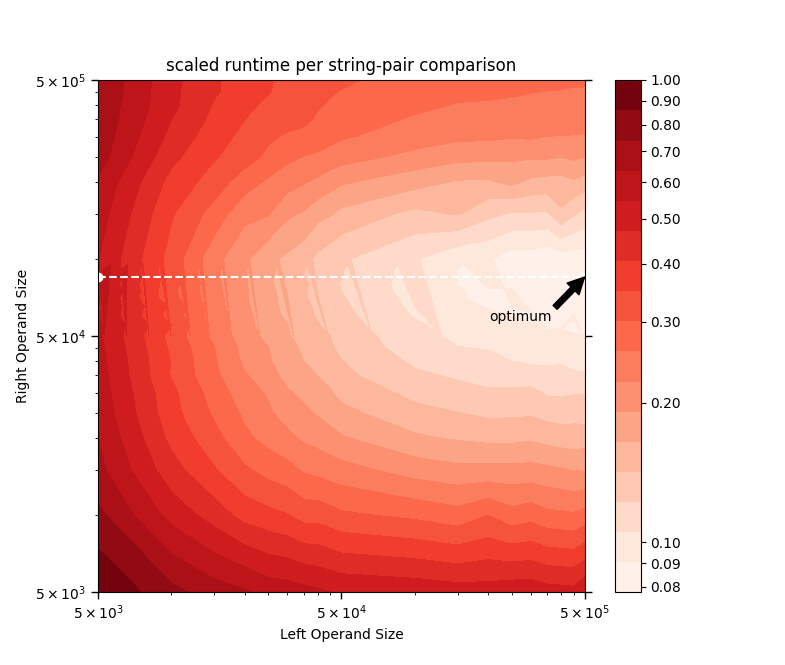
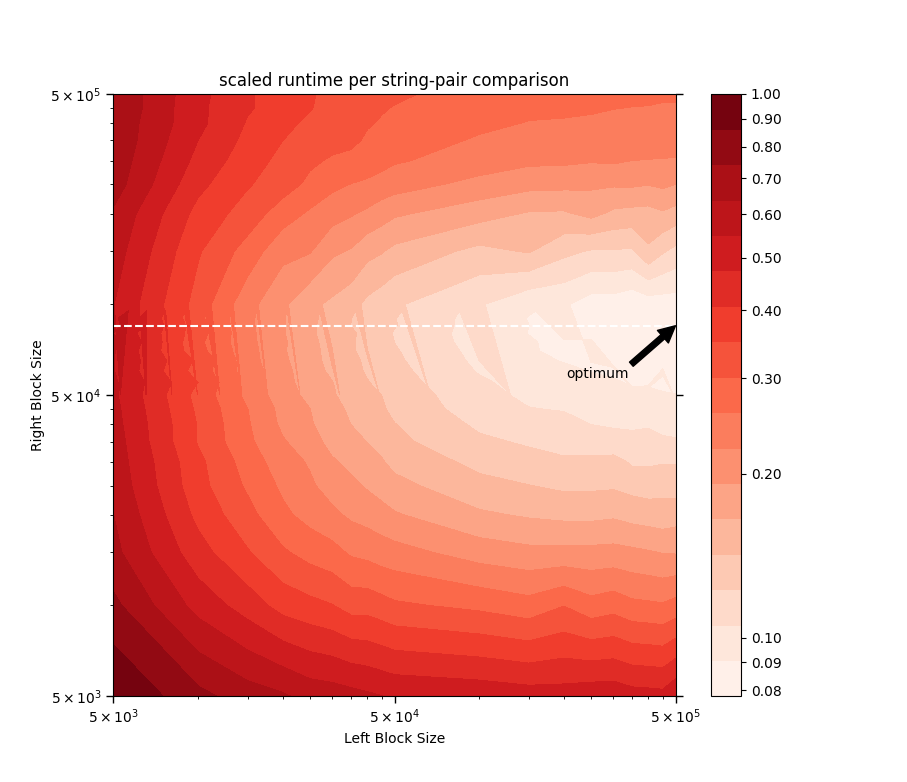
modified README.md

diff --git a/README.md b/README.md
@@ -143,6 +143,7 @@ All functions are built using a class **`StringGrouper`**. This class can be use
     Defaults to `0.8`
    * **`number_of_processes`**: The number of processes used by the cosine similarity calculation. Defaults to
     `number of cores on a machine - 1.`
+   * **`ignore_case`**: Determines whether or not letter case in strings should be ignored. Defaults to `True`.
    * **`ignore_index`**: Determines whether indexes are ignored or not.  If `False` (the default), index-columns will appear in the output, otherwise not.  (See [tutorials/ignore_index_and_replace_na.md](https://github.com/Bergvca/string_grouper/blob/master/tutorials/ignore_index_and_replace_na.md) for a demonstration.)
    * **`replace_na`**: For function `match_most_similar`, determines whether `NaN` values in index-columns are replaced or not by index-labels from `duplicates`. Defaults to `False`.  (See [tutorials/ignore_index_and_replace_na.md](https://github.com/Bergvca/string_grouper/blob/master/tutorials/ignore_index_and_replace_na.md) for a demonstration.)
    * **`include_zeroes`**: When `min_similarity` &le; 0, determines whether zero-similarity matches appear in the output.  Defaults to `True`.  (See [tutorials/zero_similarity.md](https://github.com/Bergvca/string_grouper/blob/master/tutorials/zero_similarity.md).)  **Note:** If `include_zeroes` is `True` and the kwarg `max_n_matches` is set then it must be sufficiently high to capture ***all*** nonzero-similarity-matches, otherwise an error is raised and `string_grouper` suggests an alternative value for `max_n_matches`.  To allow `string_grouper` to automatically use the appropriate value for `max_n_matches` then do not set this kwarg at all.
@@ -1004,7 +1005,7 @@ companies[companies.deduplicated_name.str.contains('PRICEWATERHOUSECOOPERS LLP')
 ![Semilogx](https://raw.githubusercontent.com/ParticularMiner/string_grouper/block/images/BlockNumberSpaceExploration1.png)
 
 String comparison, as implemented by `string_grouper`, is essentially matrix 
-multiplication.  A DataFrame of strings is converted (tokenized) into a 
+multiplication.  A pandas Series of strings is converted (tokenized) into a 
 matrix.  Then that matrix is multiplied by itself (or another) transposed.  
 
 Here is an illustration of multiplication of two matrices ***D*** and ***M***<sup>T</sup>:
@@ -1042,30 +1043,38 @@ blocks specified.  For this reason, it is recommended *not* to split the left ma
 
 ![Block Matrix 1 2](https://raw.githubusercontent.com/ParticularMiner/string_grouper/block/images/BlockMatrix_1_2.png)
 
-[Below is a log-log-log contour plot](#ContourPlot) of the 
+In general,
 
-&nbsp;&nbsp;&nbsp;***runtime per string-pair comparison***
-= ***runtime*** / (***Left Operand Size*** &times; ***Right Operand Size***)
+&nbsp;&nbsp;&nbsp;***total runtime*** = `n_blocks[0]` &times; `n_blocks[1]` &times; ***mean runtime per block-pair***
 
-scaled by its value
-at ***Left Operand Size*** = ***Right Operand Size*** = 5000.  Note that ***Operand Size***
-is the number of strings in that operand, and ***runtime*** is the time taken for the following call to run:
+&nbsp;&nbsp;&nbsp;&nbsp;&nbsp;&nbsp;&nbsp;&nbsp;&nbsp;&nbsp;&nbsp;&nbsp;&nbsp;&nbsp;&nbsp;&nbsp;&nbsp;&nbsp;&nbsp;&nbsp;&nbsp;&nbsp;&nbsp;&nbsp;&nbsp; = ***Left Operand Size*** &times; ***Right Operand Size*** &times; 
+
+&nbsp;&nbsp;&nbsp;&nbsp;&nbsp;&nbsp;&nbsp;&nbsp;&nbsp;&nbsp;&nbsp;&nbsp;&nbsp;&nbsp;&nbsp;&nbsp;&nbsp;&nbsp;&nbsp;&nbsp;&nbsp;&nbsp;&nbsp;&nbsp;&nbsp;&nbsp;&nbsp;&nbsp;&nbsp;&nbsp; ***mean runtime per block-pair*** / (***Left Block Size*** &times; ***Right Block Size***)
+
+So for given left and right operands, minimizing the ***total runtime*** is the same as minimizing the
+
+&nbsp;&nbsp;&nbsp;***runtime per string-pair comparison*** &#8797; <br>&nbsp;&nbsp;&nbsp;&nbsp;&nbsp;&nbsp;&nbsp;&nbsp;&nbsp;&nbsp;&nbsp;&nbsp;&nbsp;&nbsp;&nbsp;&nbsp;&nbsp;&nbsp;&nbsp;&nbsp;&nbsp;&nbsp;&nbsp;&nbsp;&nbsp;&nbsp;&nbsp;&nbsp;&nbsp;&nbsp;***mean runtime per block-pair*** / (***Left Block Size*** &times; ***Right Block Size***)
+
+
+[Below is a log-log-log contour plot](#ContourPlot) of the ***runtime per string-pair comparison*** scaled by its value
+at ***Left Block Size*** = ***Right Block Size*** = 5000.  Here, ***Block Size***
+is the number of strings in that block, and ***mean runtime per block-pair*** is the time taken for the following call to run:
 ```python
 # note the parameter order!
 match_strings(right_Series, left_Series, n_blocks=(1, 1))
 ```
-where `left_Series` and `right_Series`, corresponding to ***Left Operand*** and ***Right Operand*** respectively, are random subsets of the Series `companies['Company Name')]` from the
+where `left_Series` and `right_Series`, corresponding to ***Left Block*** and ***Right Block*** respectively, are random subsets of the Series `companies['Company Name')]` from the
 [sec__edgar_company_info.csv](https://www.kaggle.com/dattapiy/sec-edgar-companies-list/version/1) sample data file.
 
 <a name="ContourPlot"></a> ![ContourPlot](https://raw.githubusercontent.com/ParticularMiner/string_grouper/block/images/ScaledRuntimeContourPlot.png)
 
 It can be seen that when `right_Series` is roughly the size of 80&nbsp;000 (denoted by the 
 white dashed line in the contour plot above), the runtime per string-pair comparison is at 
-its lowest for any fixed `left_Series` size.  Above ***Right Operand Size*** = 80&nbsp;000, the 
+its lowest for any fixed `left_Series` size.  Above ***Right Block Size*** = 80&nbsp;000, the 
 matrix-multiplication routine begins to feel the limits of the computer's 
 available memory space and thus its performance deteriorates, as evidenced by the increase 
 in runtime per string-pair comparison there (above the white dashed line).  This knowledge 
-could serve as a guide for choosing the optimum block numbers &mdash;
+could serve as a guide for estimating the optimum block numbers &mdash;
 namely those that divide the Series into blocks of size roughly equal to 
 80&nbsp;000 for the right operand (or `right_Series`).
 
